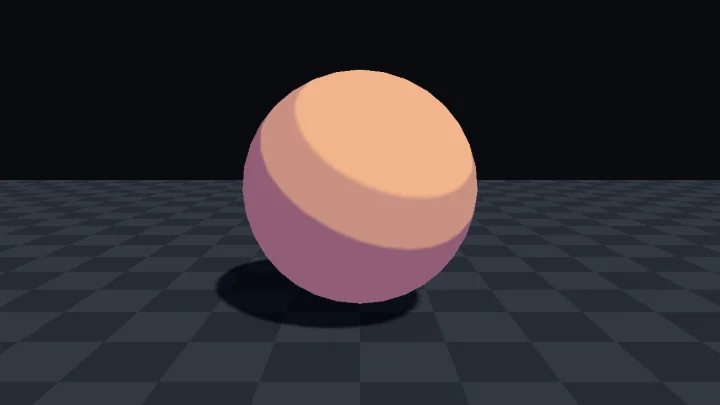
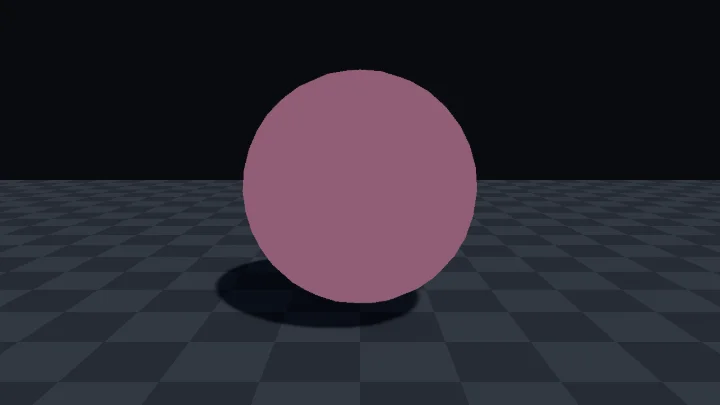
dispatch(toon-ramp-lit-fix): 표본 수정: toon-ramp-lit 리뷰 반영
Dispatch-Job: toon-ramp-lit-fix
Dispatch-Profile: org
Dispatch-Model: claude-opus-5-5

Changed region(s): [[0.3361, 0.1481, 0.6722, 0.6222]]

diff --git a/web/src/specimens/toon-ramp-lit/meta.ts b/web/src/specimens/toon-ramp-lit/meta.ts
@@ -10,7 +10,7 @@ export const meta: SpecimenMeta = {
   goals: [
     '`dot(N, L)` 을 몇 개의 띠로 끊어 매끈한 음영을 평평한 단계로 바꿀 수 있다.',
     '`smoothstep` 폭으로 띠 경계의 부드러움을 조절하고, `step` 만 쓰면 경계가 깨지는 이유를 설명할 수 있다.',
-    '그늘을 검정 대신 색조로 바꾸고, 환경광이 섞인 값을 끊으면 경계가 밀리는 이유를 설명할 수 있다.',
+    '그늘을 검정 대신 색조로 바꾸고, 조명이 끝난 색을 끊으면 그늘이 검게 떨어지고 색이 깨지는 이유를 설명할 수 있다.',
     '받는 그림자를 띠로 끊기 전에 곱해 같은 단계로 보이게 할 수 있다.',
   ],
   tags: ['툰 셰이딩', '램프', '램버트', '받는 그림자', 'smoothstep'],
@@ -20,51 +20,52 @@ export const meta: SpecimenMeta = {
   params: [
     { key: '_Bands', label: '띠 수', type: 'range', min: 2, max: 5, step: 1, default: 3, hint: '음영 단계의 수. 2 면 빛과 그늘 두 가지뿐이다' },
     { key: '_Softness', label: '경계 부드러움', type: 'range', min: 0, max: 0.5, step: 0.01, default: 0.06, hint: '띠 하나 폭에 대한 비율. 0 이면 칼 같은 경계, 0.5 면 띠가 녹아 매끈한 그라데이션에 가까워진다' },
-    { key: '_ShadeShift', label: '그늘 넓이', type: 'range', min: -0.6, max: 0.6, step: 0.01, default: 0, hint: '올리면 경계가 빛 쪽으로 밀려 그늘이 넓어지고, 내리면 빛이 뒤쪽까지 감싼다' },
+    { key: '_ShadeShift', label: '그늘 넓이', type: 'range', min: -0.25, max: 0.6, step: 0.01, default: 0, hint: '올리면 경계가 빛 쪽으로 밀려 그늘이 넓어지고, 내리면 경계가 명암선 쪽으로 내려가 빛 면이 넓어진다' },
     { key: '_ShadeColor', label: '그늘 색', type: 'color', default: '#9a88d8', hint: '기본 색에 곱하는 색. 검정에 가까울수록 탁해지고, 채도가 있으면 그늘의 색조가 바뀐다' },
     { key: '_BaseColor', label: '기본 색', type: 'color', default: '#f2b48c', hint: '빛을 받는 가장 밝은 띠의 색' },
   ],
   presets: [
-    { id: 'three-tone', name: '세 단계 셀 음영', look: '복숭아빛 몸에 연보라 그늘, 사이에 가운데 띠 하나', values: {} },
-    { id: 'two-tone', name: '두 단계 애니메이션 음영', look: '빛과 그늘 두 가지뿐인 날카로운 경계, 빨간 몸에 자줏빛 그늘', values: { _Bands: 2, _Softness: 0.02, _ShadeShift: 0.1, _BaseColor: '#e8584a', _ShadeColor: '#8a6ad0' } },
-    { id: 'storybook', name: '부드러운 그림책', look: '네 단계가 번지듯 이어지고 빛이 뒤쪽까지 감싼다', values: { _Bands: 4, _Softness: 0.22, _ShadeShift: -0.2, _BaseColor: '#a8d88a', _ShadeColor: '#5a78c0' } },
+    { id: 'three-tone', name: '세 단계 셀 음영', look: '복숭아빛 공에 연보라 그늘, 사이에 가운데 띠 하나', values: {} },
+    { id: 'two-tone', name: '두 단계 애니메이션 음영', look: '빛과 그늘 두 가지뿐인 날카로운 경계, 빨간 공에 자줏빛 그늘', values: { _Bands: 2, _Softness: 0.02, _ShadeShift: 0.1, _BaseColor: '#e8584a', _ShadeColor: '#8a6ad0' } },
+    { id: 'storybook', name: '부드러운 그림책', look: '네 단계가 번지듯 이어지고, 경계가 명암선 쪽으로 내려가 빛 면이 넓다', values: { _Bands: 4, _Softness: 0.22, _ShadeShift: -0.2, _BaseColor: '#a8d88a', _ShadeColor: '#5a78c0' } },
     { id: 'moonlit', name: '차가운 달밤', look: '넓고 짙은 남색 그늘 위에 좁은 빛 띠', values: { _Bands: 2, _Softness: 0.08, _ShadeShift: 0.35, _BaseColor: '#dce4f4', _ShadeColor: '#3c4690' } },
   ],
   events: [],
   demo: {
     // 그늘 넓이를 오가며 띠 경계가 구 위를 쓸고 지나가게 한다. 빛이 움직이는 것처럼 보인다.
-    loops: [{ key: '_ShadeShift', frames: [[0, 0], [2.6, 0.45], [3.4, 0.45], [6.6, -0.45], [7.4, -0.45], [10, 0]], ease: 'inOutSine' }],
+    loops: [{ key: '_ShadeShift', frames: [[0, 0], [2.6, 0.45], [3.4, 0.45], [6.6, -0.25], [7.4, -0.25], [10, 0]], ease: 'inOutSine' }],
   },
   steps: [
-    { n: 1, label: 'dot(N, L)', body: '법선과 빛 방향의 내적이다. 빛을 정면으로 받는 오른쪽 위가 가장 희다. 화면에서는 몸 대부분이 흰색에 가깝게 보이고, 왼쪽 아래 빛과 직각인 곳에 가까워져서야 빠르게 어두워진다. 그 너머 뒤쪽은 값이 0 아래라 검게 잘린다. 일반 조명은 이 매끈한 값을 그대로 쓴다.' },
-    { n: 2, label: '띠로 끊기', body: '같은 값을 `_Bands` 개(기본 3)의 띠로 끊었다. 매끈하던 밝기가 흰색, 밝은 회색, 검정의 평평한 층이 된다. 경계는 `smoothstep` 으로 띠 폭의 `_Softness` 만큼만 짧게 이어진다. 받는 그림자도 이 단계에서 곱해져 같은 띠로 끊긴다. 띠 수 슬라이더를 움직이면 층의 수가 바뀐다.' },
+    { n: 1, label: 'dot(N, L)', body: '법선과 빛 방향의 내적이다. 빛을 정면으로 받는 오른쪽 위가 가장 희다. 화면에서는 공 대부분이 흰색에 가깝게 보이고, 왼쪽 아래 빛과 직각인 곳에 가까워져서야 빠르게 어두워진다. 그 너머 뒤쪽은 값이 0 아래라 검게 잘린다. 일반 조명은 이 매끈한 값을 그대로 쓴다.' },
+    { n: 2, label: '띠로 끊기', body: '같은 값을 `_Bands` 개(기본 3)의 띠로 끊었다. 매끈하던 밝기가 흰색, 밝은 회색, 검정의 평평한 층이 된다. 경계는 `smoothstep` 으로 띠 폭의 `_Softness` 만큼만 짧게 이어진다. (Unity 에서) 다른 물체가 드리운 그림자도 끊기 전에 곱해지므로 같은 띠로 끊긴다. 띠 수 슬라이더를 움직이면 층의 수가 바뀐다.' },
     { n: 3, label: '그늘 색 입히기', body: '띠 값으로 그늘 색과 흰색 사이를 고른다. 검정이던 띠가 보라가 되고, 가운데 띠는 흰색과 보라의 중간인 연보라다. 이 색을 기본 색에 곱하므로 그늘은 검게 어두워지는 대신 색조가 바뀐다.' },
-    { n: 4, label: '최종', body: '기본 색을 곱한 결과. 복숭아빛 몸의 그늘이 흙빛 갈색이 아니라 자줏빛으로 남는다. 환경광은 더하지 않았으므로 그늘의 밝기와 색은 오직 `_ShadeColor` 가 정한다.' },
+    { n: 4, label: '최종', body: '기본 색을 곱한 결과. 복숭아빛 공의 그늘이 흙빛 갈색이 아니라 자줏빛으로 남는다. 환경광은 더하지 않았으므로 그늘의 밝기와 색은 `_BaseColor × _ShadeColor` 가 정한다. 기본 색을 바꾸면 그늘도 함께 바뀐다.' },
   ],
-  offNote: '환경광과 빛 세기가 이미 섞인 `lighting` 을 띠로 끊은 흔한 실수. 조명 결과에 Posterize 를 거는 것과 같다. 뒤쪽도 환경광만큼 밝아 0 이 되지 않고 빛 세기(1.2)가 1 을 넘으므로 모든 경계가 그늘 쪽으로 밀려, 가장 밝은 띠가 몸의 대부분을 덮고 가운데 띠가 가늘어진다. 환경광은 푸른 기가 있어 채널마다 경계가 어긋나고, 경계마다 초록과 보라의 얇은 색 줄이 생긴다. 조명 세기나 환경광을 바꿀 때마다 경계가 또 움직인다.',
+  offNote: '조명이 끝난 최종 색(`_BaseColor.rgb * i.lighting`)을 채널마다 띠로 끊은 흔한 실수. Lit 결과에 Posterize 를 거는 것과 같다. 그늘 쪽 아래는 채널 값이 모두 첫 경계보다 낮아 새까맣게 떨어진다. 빛 쪽은 R, G, B 가 따로 끊겨 새빨간 띠, 주황빛 노랑 띠, 분홍빛 흰 점이 생기고, 복숭아빛 기본 색은 어디에도 남지 않는다. 그늘 색을 거치지 않으므로 그늘 색 슬라이더를 움직여도 아무것도 바뀌지 않는다.',
   mistakes: [
     { title: '그늘이 검게 탁해진다', body: '띠 값을 기본 색에 그대로 곱하면 그늘이 검정 쪽으로만 어두워져 흙빛이 된다. 그늘 색을 따로 두고 `lerp(그늘 색, 빛 색, 띠 값)` 을 기본 색에 곱한다. 그늘 색은 회색보다 채도가 있는 보라, 파랑, 분홍 쪽이 만화 같다.' },
-    { title: '띠 경계가 계단처럼 깨지고 움직일 때 반짝인다', body: '`step(경계, 밝기)` 로 끊으면 경계가 픽셀 단위로 0 과 1 만 오가서 지그재그가 보이고, 물체나 카메라가 움직이면 경계 픽셀이 반짝인다. `smoothstep(경계 - w, 경계 + w, 밝기)` 로 끊고, `w` 가 `fwidth` 보다 작아지지 않게 하면 가장 날카롭게 해도 1 픽셀은 이어진다.' },
-    { title: '띠 경계가 그늘 쪽으로 밀리고 조명을 바꿀 때마다 움직인다', body: '`albedo * lighting` 에 쓰는 `lighting` 은 `빛 색 × saturate(dot(N, L)) + 환경광` 이다. 이것을 끊으면 환경광과 빛 세기가 경계 위치에 섞인다. 띠는 `dot(N, L)` 로 정하고, 환경광이 필요하면 띠로 끊은 뒤 따로 더한다.' },
+    { title: '띠 경계가 계단처럼 깨지고 움직일 때 반짝인다', body: '`step(경계, 밝기)` 로 끊으면 경계가 픽셀 단위로 0 과 1 만 오가서 지그재그가 보이고, 물체나 카메라가 움직이면 경계 픽셀이 반짝인다. `smoothstep(경계 - w, 경계 + w, 밝기)` 로 끊고, `w` 가 `fwidth` 보다 작아지지 않게 하면 가장 날카롭게 해도 1~2 픽셀은 이어진다.' },
+    { title: '그늘이 새까맣게 떨어지고 빛 쪽 색이 엉뚱한 덩어리로 깨진다', body: 'Lit 셰이더의 결과나 `albedo * lighting` 처럼 조명이 끝난 색에 Posterize 를 걸면 R, G, B 가 채널마다 따로 띠로 끊긴다. 그늘 쪽은 채널 값이 첫 경계보다 낮아 검정이 되고, 빛 쪽은 채널마다 다른 단계에 걸려 기본 색에 없던 빨강, 주황 같은 색 덩어리가 된다. 그늘 색을 넣을 자리가 없고, 빛 세기와 환경광이 경계 위치에 섞여 조명을 바꿀 때마다 띠가 움직인다. 띠는 밝기 하나(`dot(N, L)`)로 정하고, 그 띠 값으로 `lerp(그늘 색, 빛 색, 띠 값)` 을 골라 기본 색에 곱한다. 환경광이 필요하면 띠로 끊은 뒤 따로 더한다.' },
     { title: '다른 물체의 그림자가 띠와 따로 부드러운 회색으로 보인다', body: '띠로 끊은 색에 `shadowAttenuation` 을 나중에 곱하면 그림자만 매끈한 회색 얼룩이 된다. 그림자 감쇠는 **끊기 전에** `dot(N, L)` 에 곱한다. 이 표본은 래퍼가 넘기는 `lightColor`(빛 색 × 감쇠)의 가장 큰 채널을 감쇠로 쓴다. 그림자가 아예 안 생기면 Forward 패스에 `_MAIN_LIGHT_SHADOWS` 계열 `multi_compile` 이 있는지 본다.' },
-    { title: '램프 텍스처로 바꿨더니 끝에 엉뚱한 색 줄이 생기거나 띠가 번진다', body: '수식 대신 가로 그라데이션 PNG(왼쪽이 그늘, 오른쪽이 빛)를 쓰려면 래퍼에 `_RampTex` 텍스처 속성과 선언을 더하고, `core.hlsl` 의 `lerp(_ShadeColor.rgb, lightHue, band)` 를 `SG_TEX(_RampTex, float2(level, 0.5)).rgb` 로 바꾼다. 띠 수, 경계, 그늘 색은 이제 텍스처에 그린 대로 정해진다. 텍스처의 Wrap Mode 를 Clamp 로 두지 않으면 밝기 0 과 1 에서 반대쪽 끝 색이 섞여 가장자리에 줄이 생긴다. 띠를 칼같이 두려면 Filter Mode 를 Point 로, Generate Mip Maps 를 끈다. 색을 그린 램프는 sRGB 를 켜 둔다.' },
+    { title: '램프 텍스처로 바꿨더니 끝에 엉뚱한 색 줄이 생기거나 띠가 번진다', body: '수식 대신 가로 그라데이션 PNG(왼쪽이 그늘, 오른쪽이 빛)를 쓰려면 래퍼의 `Properties` 에 `_RampTex ("램프", 2D) = "white" {}` 를 더하고 `CBUFFER` 밖에 `TEXTURE2D(_RampTex); SAMPLER(sampler_RampTex);` 를 선언한다. 그다음 `core.hlsl` 의 `lerp(_ShadeColor.rgb, lightHue, band)` 를 `SAMPLE_TEXTURE2D(_RampTex, sampler_RampTex, float2(level, 0.5)).rgb` 로 바꾼다. 이 래퍼에는 `SG_TEX` 가 정의되어 있지 않으므로 `SG_TEX` 로 쓰면 컴파일되지 않는다. 띠 수, 경계, 그늘 색은 이제 텍스처에 그린 대로 정해진다. 텍스처의 Wrap Mode 를 Clamp 로 두지 않으면 밝기 0 과 1 에서 반대쪽 끝 색이 섞여 가장자리에 줄이 생긴다. Filter Mode 를 Point 로 두면 텍스처 칸 경계가 `step` 과 같은 계단 경계가 되어 지그재그와 반짝임이 돌아온다. Bilinear 로 두고, 띠가 바뀌는 곳에 몇 픽셀 폭의 짧은 그라데이션을 그려 경계를 정한다. Generate Mip Maps 는 끄고, 색을 그린 램프는 sRGB 를 켜 둔다.' },
   ],
   unity: {
     setup: [
       '`ToonRampLit.shader`, `core.hlsl` 을 `Assets/Shaders/toon-ramp-lit/` 에 둔다.',
       'Project 창에서 셰이더를 우클릭해 Create > Material 로 머티리얼을 만든다.',
       '머티리얼을 대상 MeshRenderer 에 넣는다. Inspector 에서 띠 수, 경계 부드러움, 그늘 색을 움직여 확인한다.',
-      '받는 그림자를 보려면 Directional Light 의 Shadow Type 을 Soft Shadows 또는 Hard Shadows 로 두고, 사용하는 URP Asset 의 Lighting > Main Light 에서 Cast Shadows 를 켠다. 같은 Directional Light 의 Intensity 는 1 이상으로 둔다.',
+      '받는 그림자를 보려면 Directional Light 의 Shadow Type 을 Soft Shadows 또는 Hard Shadows 로 두고, 사용하는 URP Asset 의 Lighting > Main Light 에서 Cast Shadows 를 켠다. 같은 Directional Light 의 Mode 는 Realtime 또는 Mixed, Intensity 는 1 이상으로 둔다.',
     ],
-    verify: '띠 수를 2 에서 5 로 올리면 물체 위의 평평한 음영 단계가 늘고, 그늘 색을 바꾸면 그늘이 검게 어두워지지 않고 그 색조로 바뀐다. 다른 물체를 빛 앞에 두면 드리운 그림자도 부드러운 회색이 아니라 같은 그늘 띠로 딱 끊긴다.',
+    verify: '띠 수를 2 에서 5 로 올리면 물체 위의 평평한 음영 단계가 늘고 그늘 색을 바꾸면 그늘이 검게 어두워지는 대신 그 색조로 바뀌며, 다른 물체를 빛 앞에 두면 드리운 그림자도 부드러운 회색이 아니라 같은 그늘 띠로 딱 끊긴다.',
     pitfalls: [
       '이 셰이더는 불투명 3D 메시용이다. 패스가 `UniversalForwardOnly` 라 2D Renderer 에서는 그려지지 않는다. 3D 프로젝트에서 쓴다.',
       '주 광원(가장 밝은 Directional Light) 하나만 띠로 받는다. 점 광원과 스포트라이트 같은 추가 광원은 무시한다. 필요하면 `GetAdditionalLight` 를 돌며 같은 방법으로 띠를 더한다. 모바일 XR 에서는 추가 광원마다 비용이 늘어난다.',
-      '받는 그림자는 `lightColor` 의 가장 큰 채널(빛 세기 × 감쇠)로 읽는다. 래퍼가 빛 색과 감쇠를 곱해 한 값으로 넘기므로 둘을 정확히 나눌 수 없다. 주 광원 Intensity 가 1 보다 작으면 그림자 밖에서도 띠가 그늘 쪽으로 밀린다. 1 보다 크면 감쇠가 `1 / Intensity` 보다 큰 옅은 그림자(Shadow Strength 를 낮춘 그림자, 부드러운 그림자의 바깥 가장자리)는 그림자 밖과 똑같이 보인다. 정확히 하려면 래퍼에서 `light.shadowAttenuation` 을 따로 넘긴다.',
-      '그림자를 띠로 끊으면 자기 그림자 여드름(shadow acne)이 흐려지지 않고 또렷한 줄무늬로 보인다. 경계 근처에 줄이 생기면 Directional Light 의 Depth Bias 와 Normal Bias 를 조금 올린다.',
+      '받는 그림자는 `lightColor` 의 가장 큰 채널(빛 색의 가장 큰 채널 × Intensity × 감쇠)로 읽는다. 래퍼가 빛 색, 거리 감쇠, 그림자 감쇠를 곱해 한 값으로 넘기므로 정확히 나눌 수 없다. 빛 색의 가장 큰 채널 × Intensity 가 1 보다 작으면 그림자 밖에서도 띠가 그늘 쪽으로 밀린다. 1 보다 크면 감쇠가 그 값의 역수보다 큰 옅은 그림자(Shadow Strength 를 낮춘 그림자, 부드러운 그림자의 바깥 가장자리, Max Distance 근처에서 사라져 가는 그림자)는 그림자 밖과 똑같이 보인다. 정확히 하려면 래퍼에서 `light.shadowAttenuation` 을 따로 넘긴다.',
+      '주 광원의 Mode 가 Baked 이거나 물체의 레이어가 광원의 Culling Mask 에서 빠지면 실시간 빛이 0 으로 들어와 물체 전체가 그늘 색이 된다. 광원을 Realtime 또는 Mixed 로 두고 Culling Mask 를 확인한다.',
+      '그림자를 띠로 끊으면 자기 그림자 여드름(shadow acne)이 흐려지지 않고 또렷한 줄무늬로 보인다. 경계 근처에 줄이 생기면 Directional Light 의 Depth Bias 와 Normal Bias 를 조금 올린다. 그늘 넓이의 최소값을 -0.25 로 둔 것도 자기 그림자 때문이다. 더 내려 띠 경계가 명암선(`dot(N, L)` = 0) 너머로 가면 물체가 자기 뒤쪽에 드리운 그림자가 그 띠를 잘라 낸다.',
       '띠 경계는 법선을 그대로 따라간다. 로우폴리나 각진 메시는 면마다 띠가 통째로 바뀌고, 캐릭터 얼굴은 법선이 조금만 달라도 큰 그늘 얼룩이 생긴다. 모델링 툴에서 법선을 다듬거나 부드러운 법선을 쓴다.',
     ],
-    graph: 'Shader Graph 패키지의 Custom Lighting 샘플(Package Manager > Shader Graph > Samples)에 셀 셰이딩 예가 있다. 직접 만들 때는 Main Light Direction 노드와 World 공간 Normal Vector 의 Dot Product 를 구하고, Custom Function 노드에 `toonBands` 와 같은 식을 넣거나 그 값을 U 로 램프 텍스처를 읽는다. 받는 그림자는 노드만으로 얻기 어려워 Custom Function 에서 `GetMainLight(TransformWorldToShadowCoord(위치))` 의 `shadowAttenuation` 을 받는다.',
+    graph: 'Shader Graph 패키지의 Custom Lighting 샘플(Package Manager > Shader Graph > Samples)에 셀 셰이딩 예가 있다. 직접 만들 때는 Main Light Direction 노드와 World 공간 Normal Vector 의 Dot Product 를 구하고, Custom Function 노드에 `toonBands` 와 같은 식을 넣거나 그 값을 U 로 램프 텍스처를 읽는다. 받는 그림자는 노드만으로 얻기 어려워 Custom Function 에서 `GetMainLight(TransformWorldToShadowCoord(위치), 위치, half4(1, 1, 1, 1))` 의 `shadowAttenuation` 을 받는다. 이때 Blackboard 에 `_MAIN_LIGHT_SHADOWS`, `_MAIN_LIGHT_SHADOWS_CASCADE`, `_SHADOWS_SOFT` 를 Boolean Keyword(Multi Compile, Global)로 더해야 한다. 없으면 그림자 맵을 읽지 않아 감쇠가 항상 1 이다.',
   },
   prompt: {
     goal: '3D 물체에 빛의 밝기를 몇 개의 띠로 끊은 만화풍 음영을 넣는다. 그늘은 검게 어두워지지 않고 지정한 색조로 바뀌며, 다른 물체가 드리운 그림자도 같은 띠로 끊겨 보인다.',
